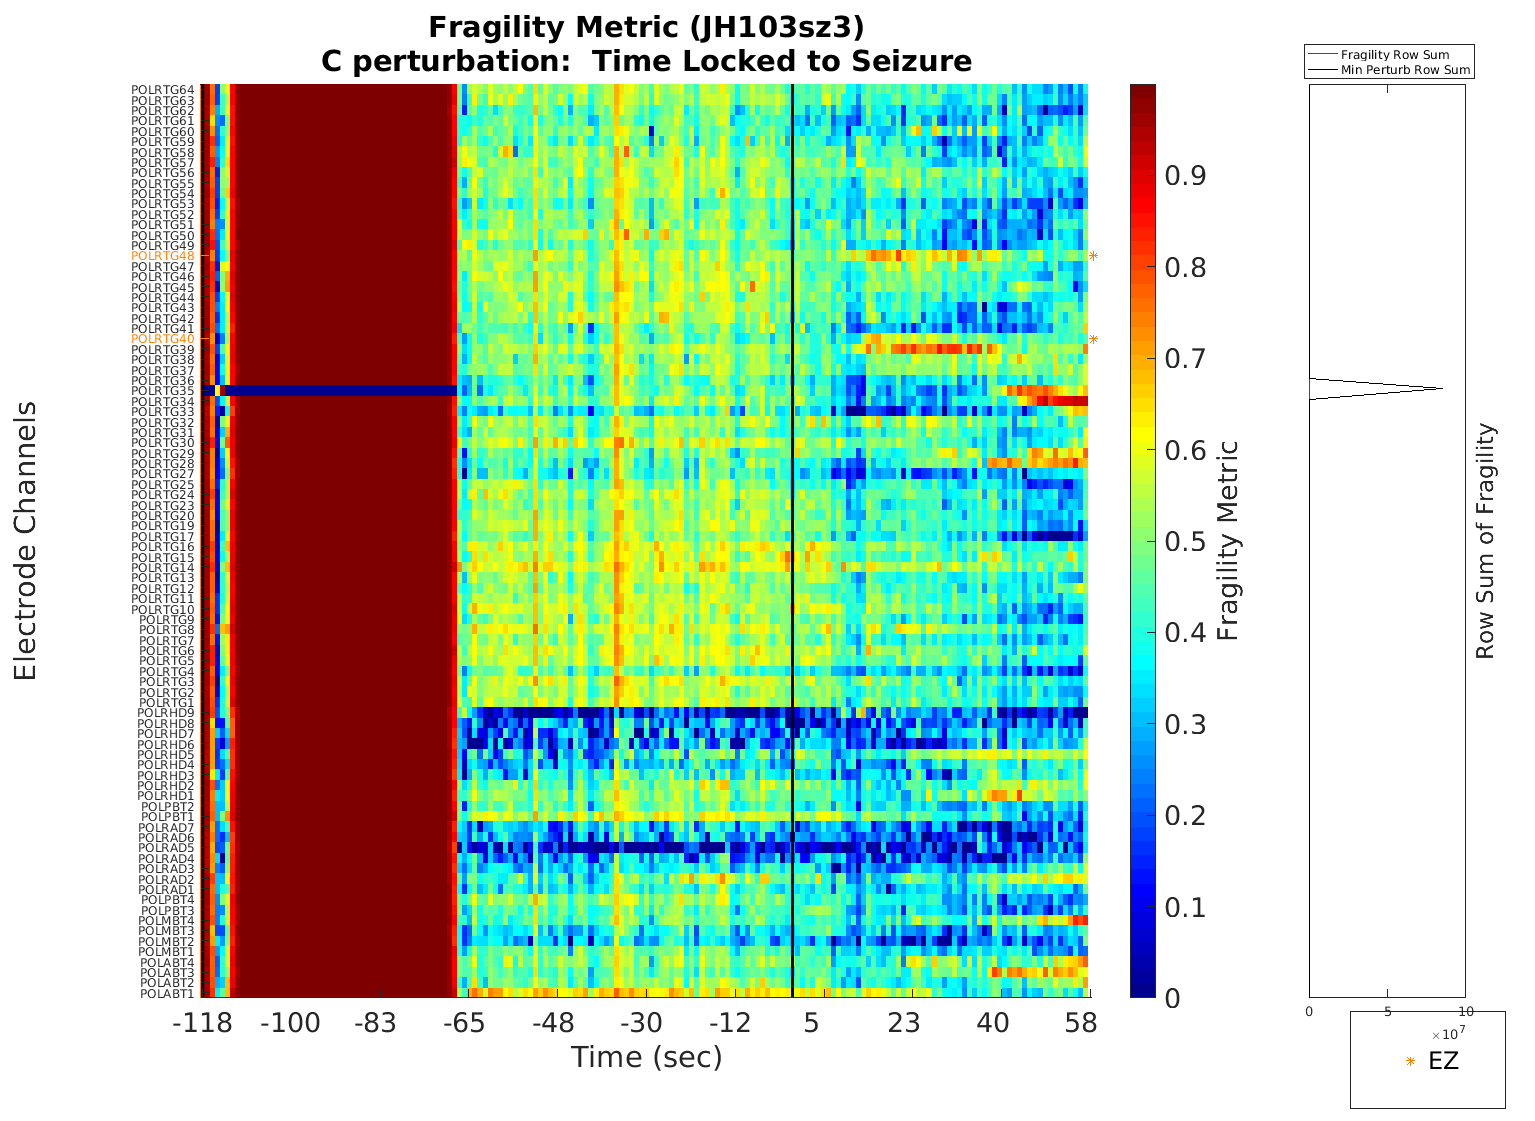
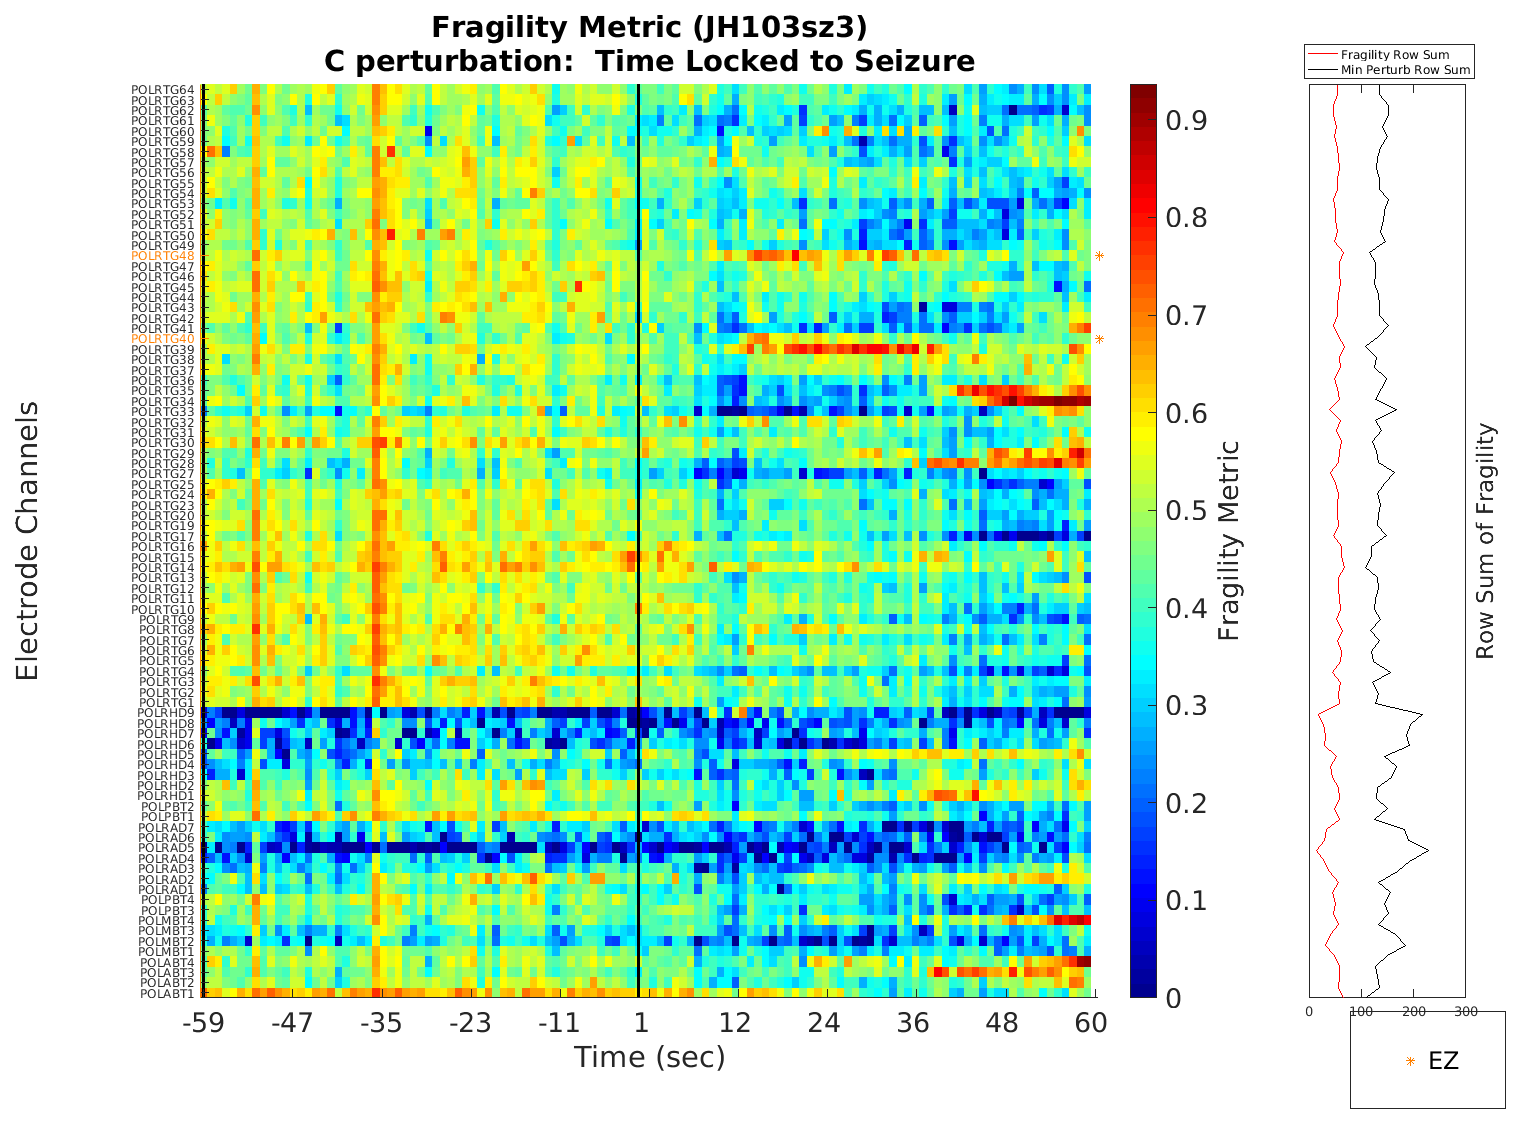
Adding figures for JH101,104,105 and trying to run JH105sz2 and 3 on ICM server.

diff --git a/fragility_dataanalysis/runPlotsAndDOA.m b/fragility_dataanalysis/runPlotsAndDOA.m
@@ -7,7 +7,7 @@ patients = {,...,
 %     'pt2aslp1', 'pt2aslp2', ...
 %     'pt3aw1', ...
 %     'pt3aslp1', 'pt3aslp2', ...
-    'pt1sz2', 'pt1sz3', 'pt1sz4',...
+%     'pt1sz2', 'pt1sz3', 'pt1sz4',...
 %     'pt2sz1' 'pt2sz3' 'pt2sz4', ...
 %     'pt3sz2' 'pt3sz4', ...
 %     'pt6sz3', 'pt6sz4', 'pt6sz5',...
@@ -21,7 +21,8 @@ patients = {,...,
 % 	'JH102sz1' 'JH102sz2' 'JH102sz3' 'JH102sz4' 'JH102sz5' 'JH102sz6',...
 % 	'JH103sz1' 'JH103sz2' 'JH103sz3',...
 % 	'JH104sz1' 'JH104sz2' 'JH104sz3',...
-% 	'JH105sz1' 'JH105sz2' 'JH105sz3' 'JH105sz4' 'JH105sz5',...
+	'JH105sz1' 'JH105sz4' 'JH105sz5'
+%     'JH105sz2' 'JH105sz3' 'JH105sz4' 'JH105sz5',...
 % 	'JH106sz1' 'JH106sz2' 'JH106sz3' 'JH106sz4' 'JH106sz5' 'JH106sz6',...
 % 	'JH107sz7' ,...
 %     'JH107sz2' 'JH107sz3' 'JH107sz5' 'JH107sz8',...
@@ -174,9 +175,9 @@ for p=1:length(patients)
         timePoints = final_data.timePoints;
         
         seizureMarkStart = seizureStart/winSize;
-        minPerturb_time_chan = minPerturb_time_chan(:, 1:seizureMarkStart+60);
-        fragility_rankings = fragility_rankings(:, 1:seizureMarkStart+60);
-        timePoints = timePoints(1:seizureMarkStart+60,:);
+        minPerturb_time_chan = minPerturb_time_chan(:, 1:seizureMarkStart+30);
+        fragility_rankings = fragility_rankings(:, 1:seizureMarkStart+30);
+        timePoints = timePoints(1:seizureMarkStart+30,:);
         
         %% 1: Extract Processed Data and Begin Plotting and Save in finalDataDir
         %%- initialize plotting args

diff --git a/fragility_dataanalysis/fragility_library/perturbation_library/minNormPerturbation.m b/fragility_dataanalysis/fragility_library/perturbation_library/minNormPerturbation.m
@@ -93,22 +93,22 @@ for iNode=1:N % 1st loop through each electrode
         end
         
         % compute perturbation necessary
-%         if w_space(iW) ~= 0
-%             del = B'*inv(B*B')*b;
-%         else
-%             del = -C./(norm(C)^2);
-%         end
-
-        % Paper way of computing this?...
-        Cr = real(C);  Ci = imag(C);
-        Cr = Cr'; Ci = Ci';
-        if (norm(Ci) < tol)
-            B = eye(N);
+        if w_space(iW) ~= 0
+            del = B'*inv(B*B')*b;
         else
-            B = null(orth([Ci])'); 
+            del = -C./(norm(C)^2);
         end
-        
-        del = -(B*inv(B'*B)*B'*Cr)/(Cr'*B*inv(B'*B)*B'*Cr);
+
+%         % Paper way of computing this?...
+%         Cr = real(C);  Ci = imag(C);
+%         Cr = Cr'; Ci = Ci';
+%         if (norm(Ci) < tol)
+%             B = eye(N);
+%         else
+%             B = null(orth([Ci])'); 
+%         end
+%         
+%         del = -(B*inv(B'*B)*B'*Cr)/(Cr'*B*inv(B'*B)*B'*Cr);
         
         % store the l2-norm of the perturbation vector
         del_size(iNode, iW) = norm(del); 

diff --git a/fragility_dataanalysis/runPerturbation.m b/fragility_dataanalysis/runPerturbation.m
@@ -47,9 +47,9 @@ patients = {...
 % 	'JH104sz1' 'JH104sz2' 'JH104sz3',...
 % % 	'JH105sz1' 'JH105sz2' 'JH105sz3'  'JH105sz4' 'JH105sz5',...
 % % 	'JH106sz1' 'JH106sz2' 'JH106sz3' 'JH106sz4' 'JH106sz5' 'JH106sz6',...
-% % 	'JH107sz1' 'JH107sz2' 'JH107sz3' 'JH107sz4' 'JH107sz5' 'JH107sz6' 'JH107sz7' 'JH107sz8' 'JH107sz8', 'JH107sz9'...
+	'JH107sz1' 'JH107sz2' 'JH107sz3' 'JH107sz4' 'JH107sz5' 'JH107sz6' 'JH107sz7' 'JH107sz8' 'JH107sz8', 'JH107sz9'...
 %   'JH108sz1', 'JH108sz2', 'JH108sz3', 
-'JH108sz4', 'JH108sz5', 'JH108sz6', 'JH108sz7',...
+% 'JH108sz4', 'JH108sz5', 'JH108sz6', 'JH108sz7',...
 
 % 'JH107sz7',...
 };
@@ -63,7 +63,7 @@ stepSize = 500;
 frequency_sampling = 1000; % in Hz
 IS_SERVER = 0;
 TYPE_CONNECTIVITY = 'leastsquares';
-TEST_DESCRIP = [];
+TEST_DESCRIP = 'noleftandrpp';
 
 
 % add libraries of functions

diff --git a/fragility_dataanalysis/runConnectivity.m b/fragility_dataanalysis/runConnectivity.m
@@ -5,7 +5,7 @@ clc;
 % settings to run
 patients = {,...
 %     'JH107sz1' 'JH107sz2' 'JH107sz3' 'JH107sz4' 'JH107sz5' 
-    'JH107sz6' 'JH107sz7' 'JH107sz8' 'JH107sz8', 'JH107sz9'...
+%     'JH107sz6' 'JH107sz7' 'JH107sz8' 'JH107sz8', 'JH107sz9'...
 %     'JH108sz1', 'JH108sz2', 'JH108sz3', 'JH108sz4', 'JH108sz5', 'JH108sz6', 'JH108sz7',...
 %     'JH101sz1' 'JH101sz2' 'JH101sz3' 'JH101sz4',...
 %     'EZT019seiz002',...
